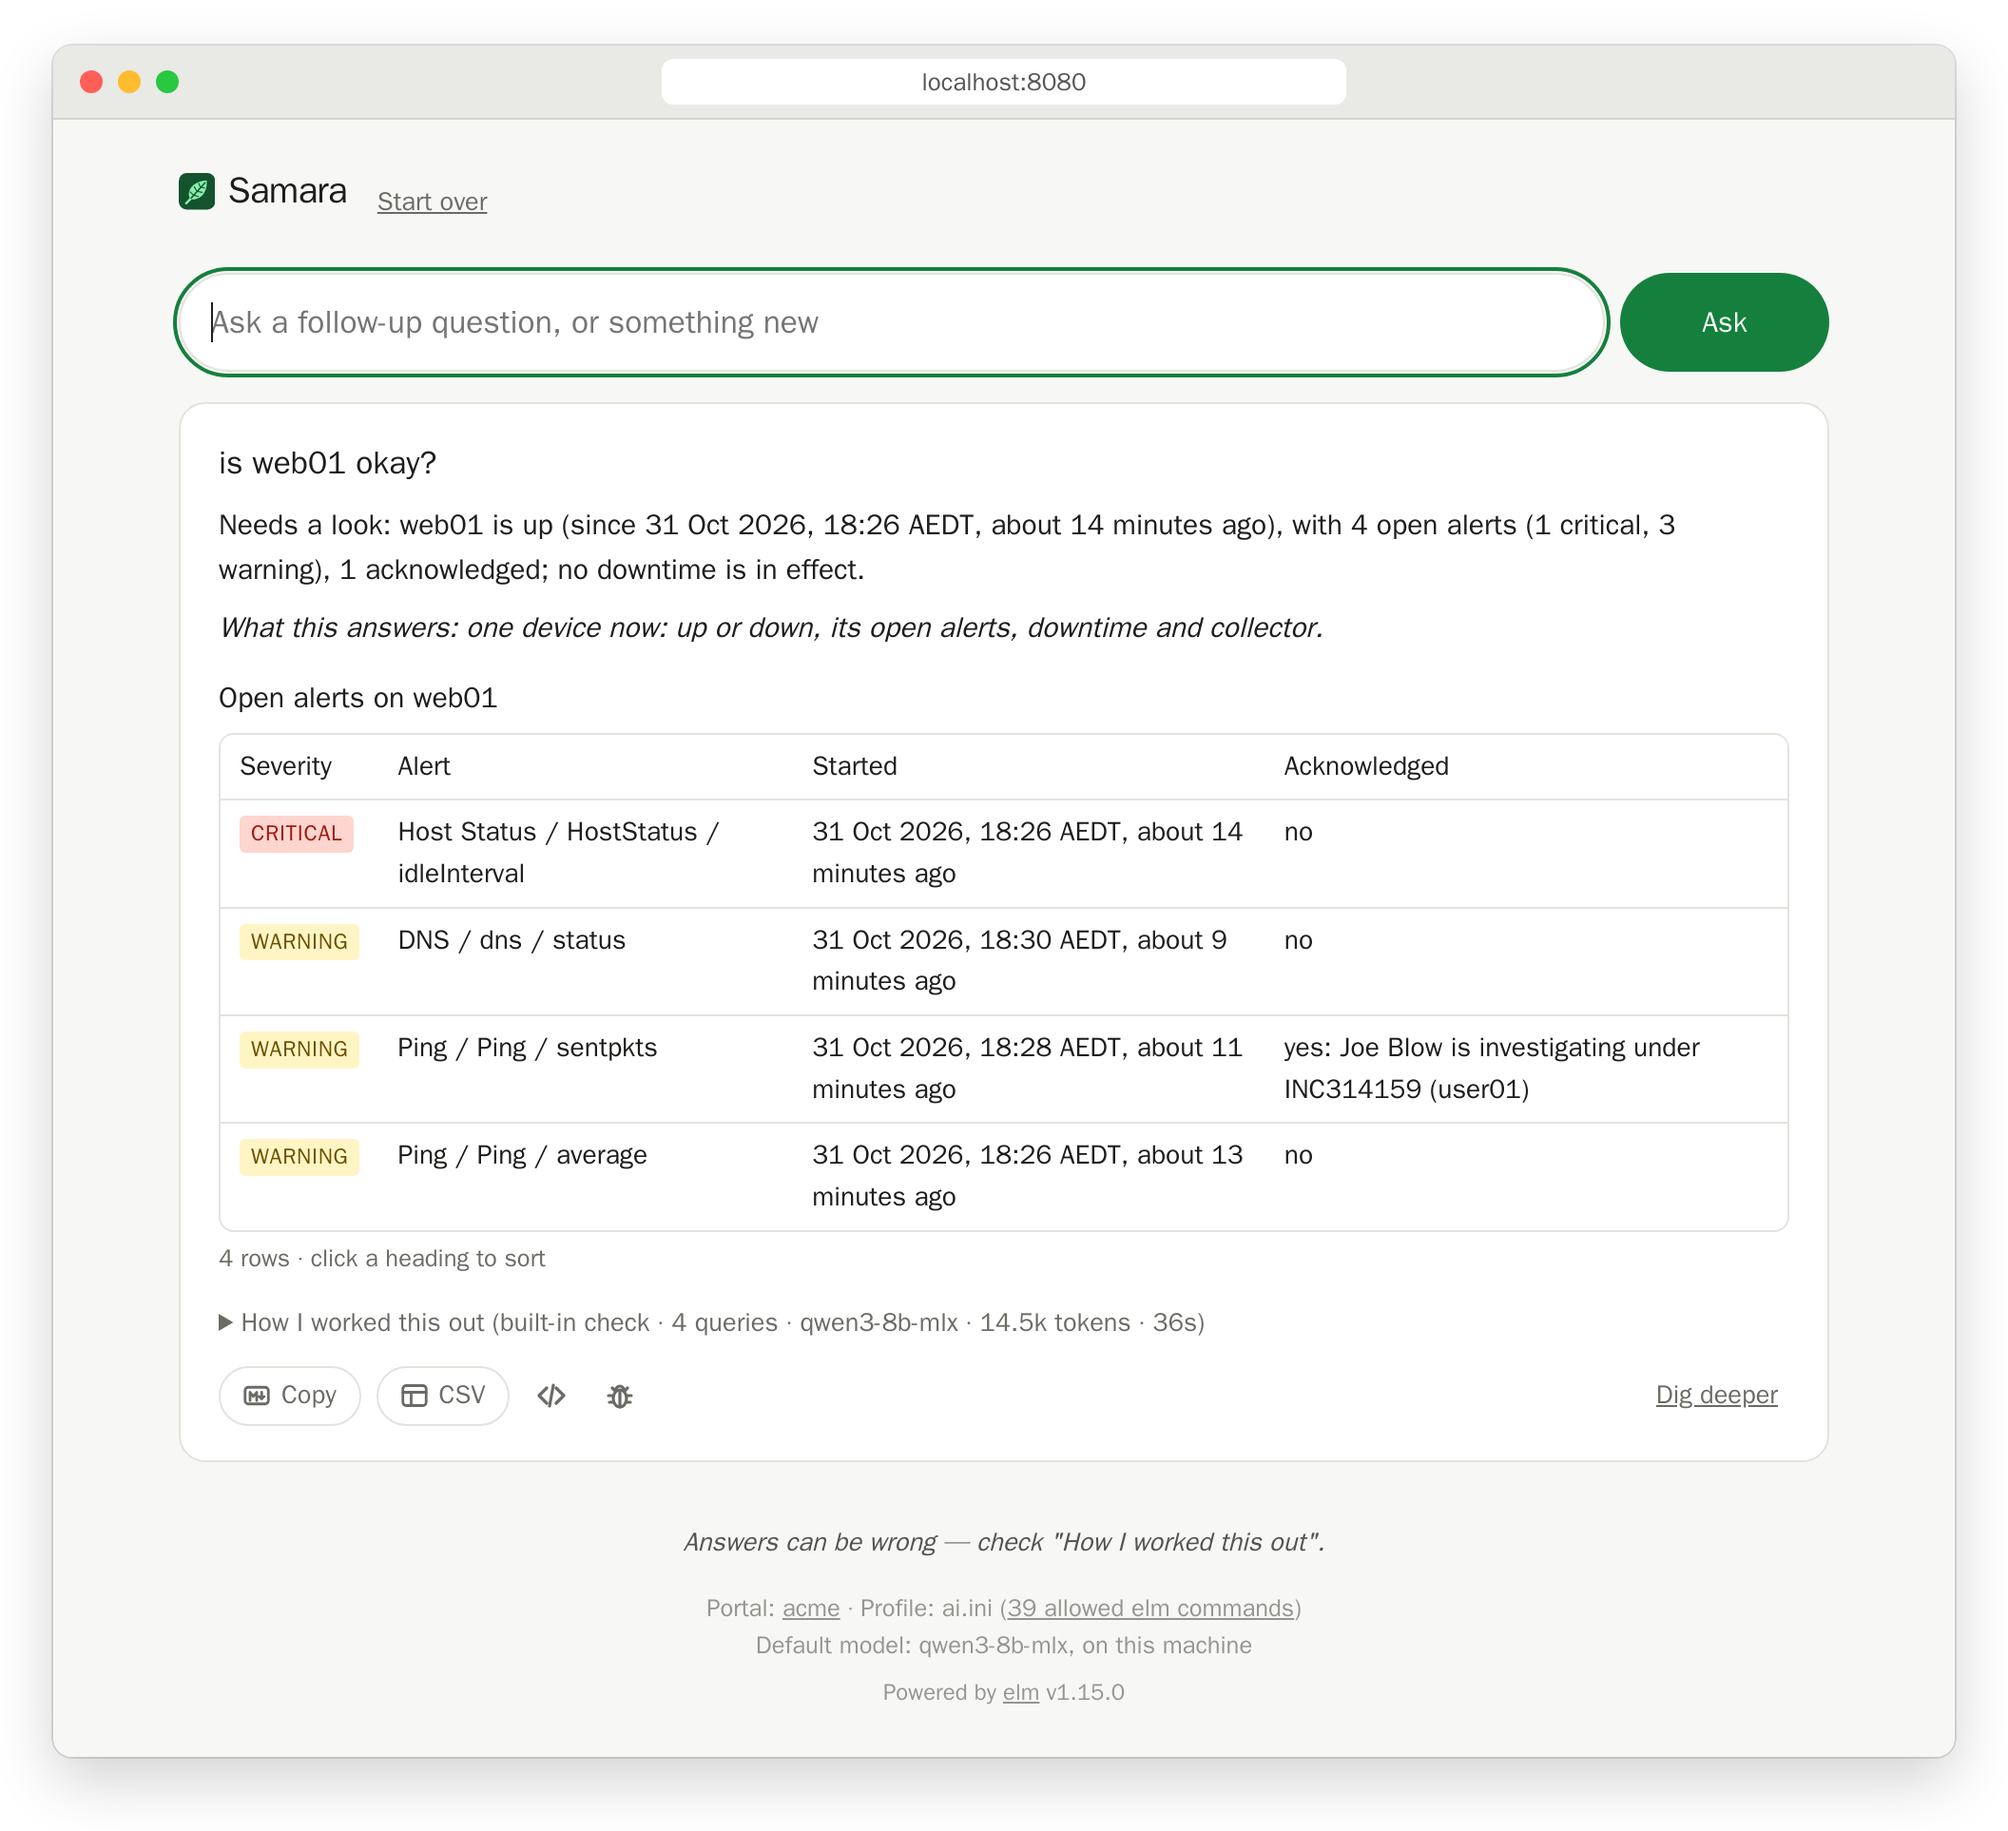
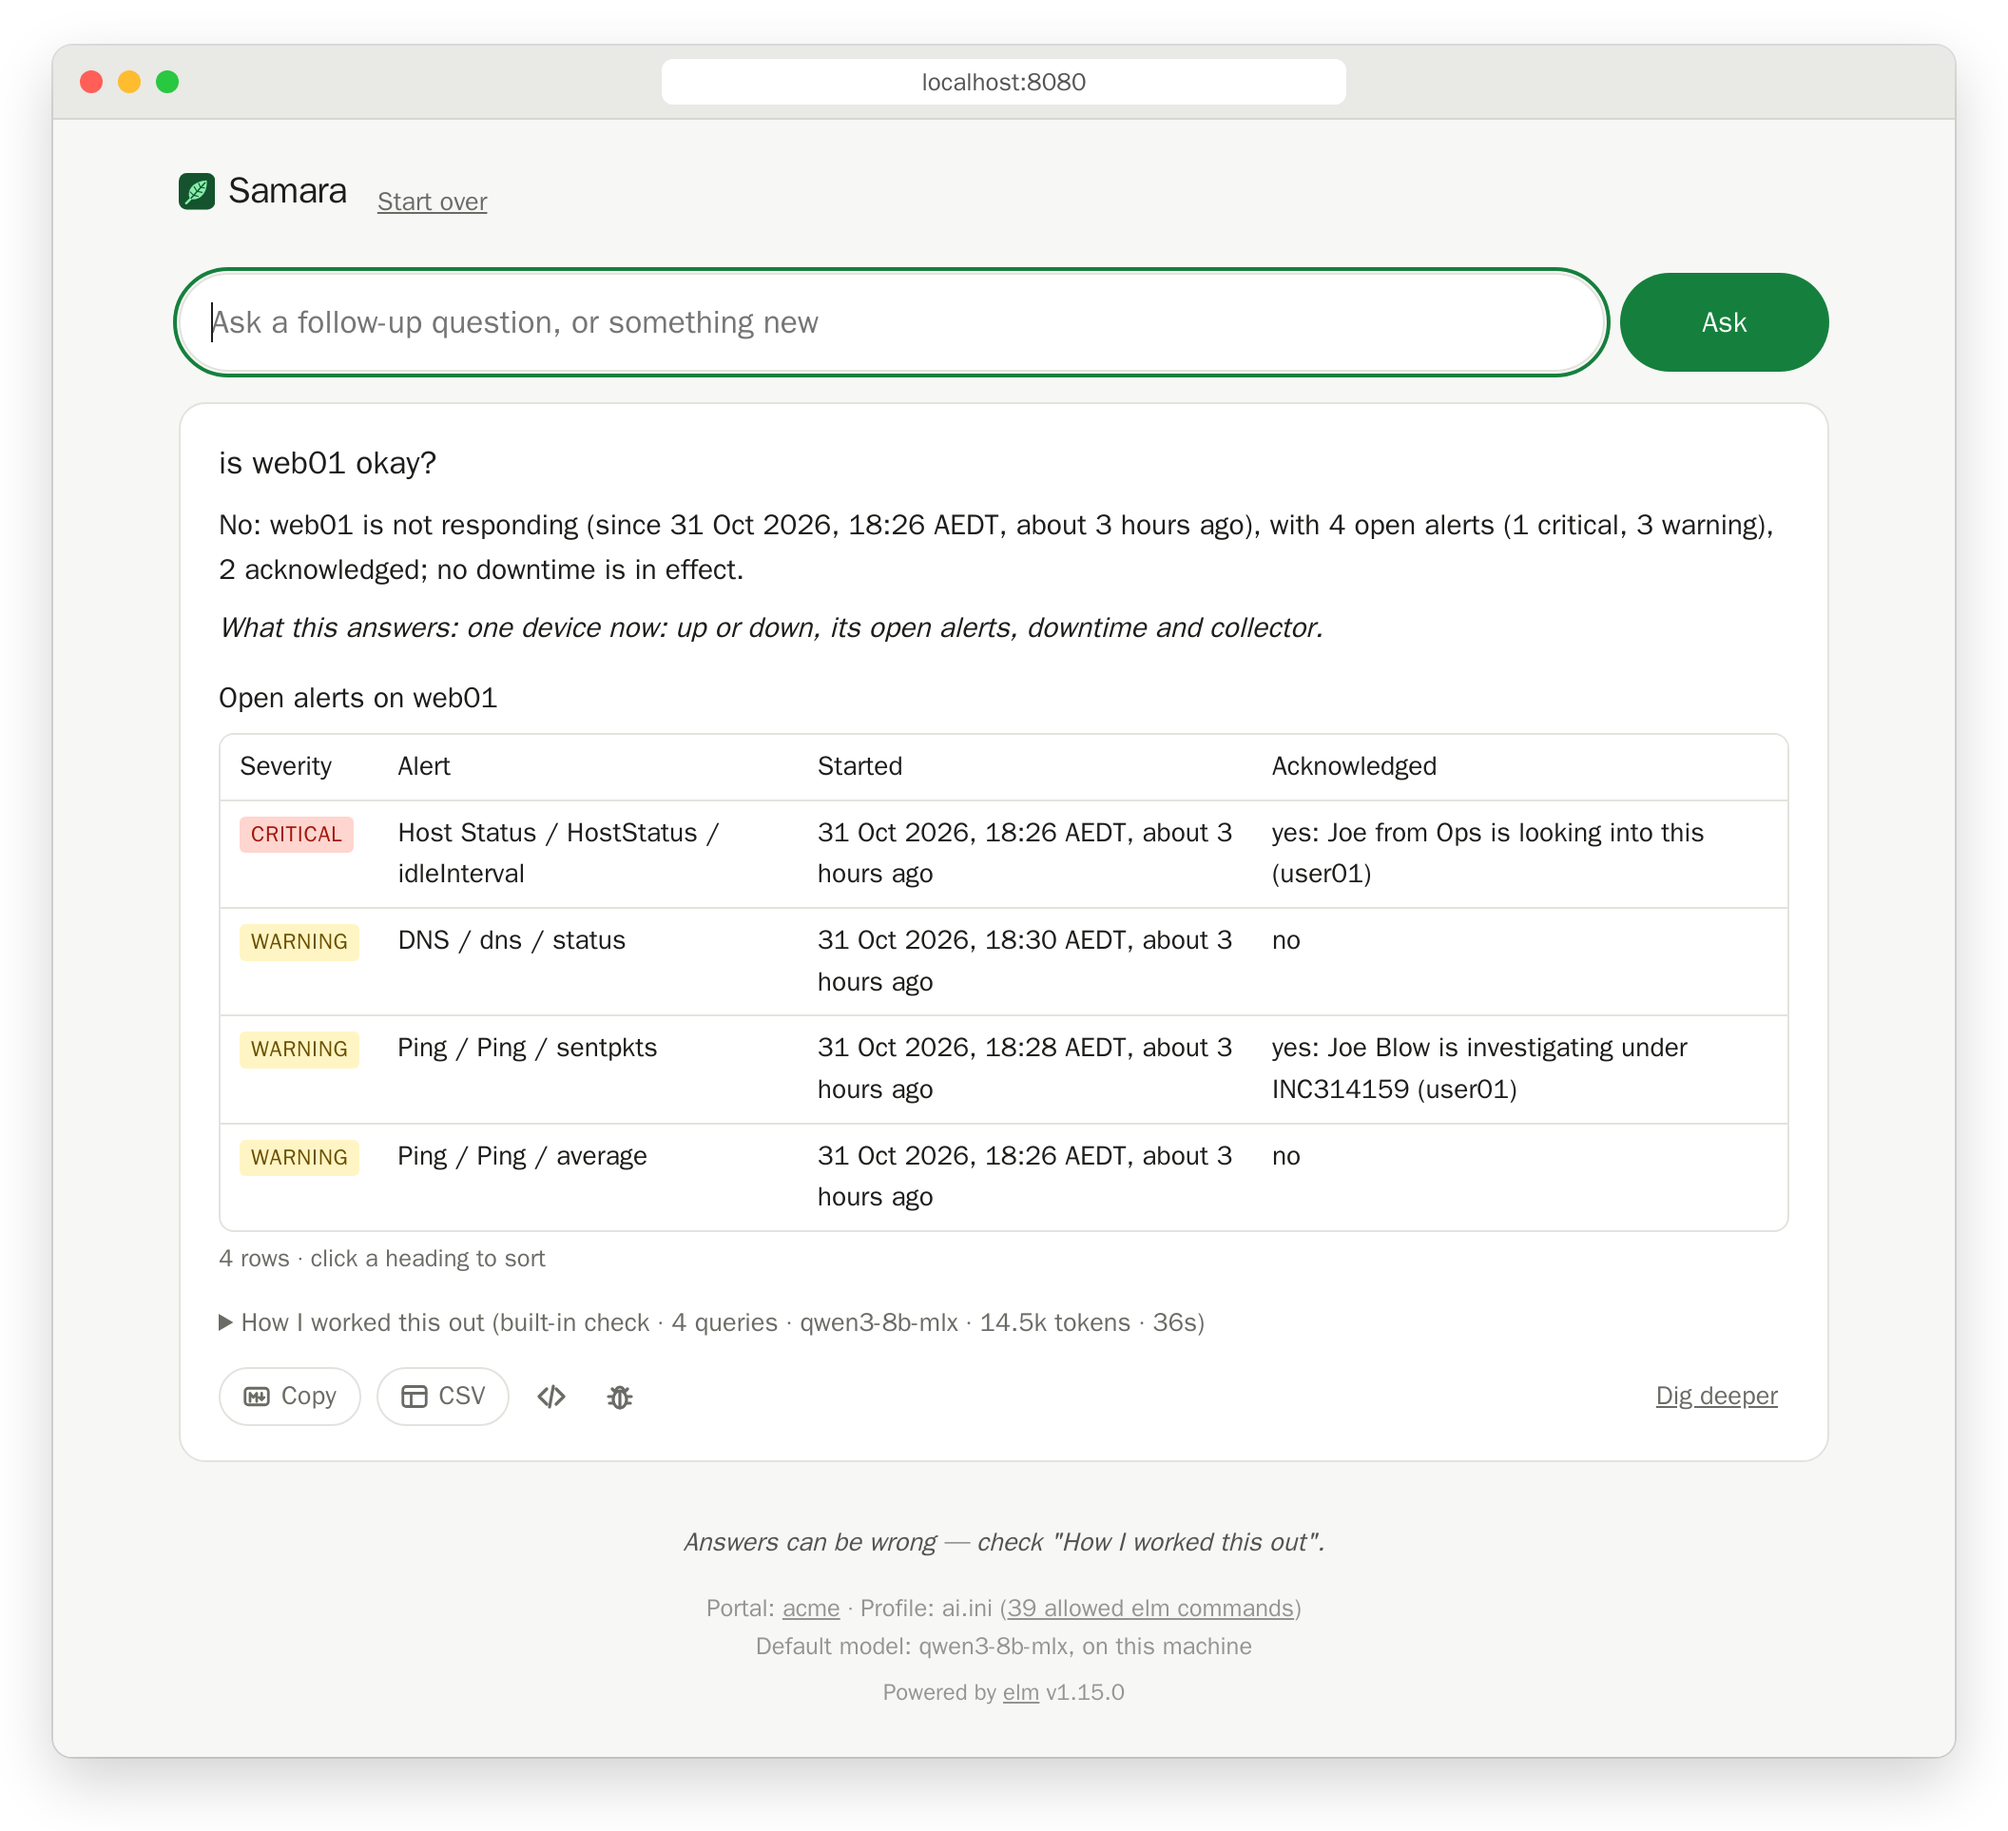
docs(site): a way home from every post; new intro; screenshot from a live run
- _layouts/post.html puts "<- elm and Samara" above each post; the posts
  and the meet-samara draft use it.
- The front page says what each tool is: elm a Unix-style command-line
  tool, Samara an AI front end that turns plain-English questions into elm
  commands.
- The Samara screenshot is a fresh device_health run (web01 not
  responding, two acknowledgements), names swapped, trimmed and framed.

Checked with a Jekyll build using the plugins Pages turns on by default.

diff --git a/_layouts/post.html b/_layouts/post.html
@@ -1,0 +1,6 @@
+---
+layout: default
+---
+<p><a href="{{ "/" | relative_url }}">&larr; elm and Samara</a></p>
+
+{{ content }}

diff --git a/index.md b/index.md
@@ -5,9 +5,10 @@ description: LogicMonitor tools that look but don't touch
 ---
 
 Two tools for getting answers out of LogicMonitor, the monitoring platform:
-elm on the command line, and Samara in plain English. Both only read, so
-nobody using them, person or AI assistant, can change the data or settings
-in your portal.
+**elm**, a traditional Unix-style command-line tool, and **Samara**, an AI
+front end that turns plain-English questions into elm commands and shows you
+the results. Both only read, so nobody using them, person or AI assistant,
+can change the data or settings in your portal.
 
 ## elm
 

diff --git a/_drafts/meet-samara.md b/_drafts/meet-samara.md
@@ -1,5 +1,5 @@
 ---
-layout: default
+layout: post
 title: "meet samara"
 description: "or: asking LogicMonitor things in plain english"
 ---

diff --git a/_posts/2026-10-31-designing-a-cli-for-ai-assistants.md b/_posts/2026-10-31-designing-a-cli-for-ai-assistants.md
@@ -1,5 +1,5 @@
 ---
-layout: default
+layout: post
 title: "designing a cli for ai assistants"
 description: "who never read the manual"
 ---

diff --git a/_posts/2026-10-12-introducing-elm.md b/_posts/2026-10-12-introducing-elm.md
@@ -1,5 +1,5 @@
 ---
-layout: default
+layout: post
 title: "introducing elm"
 description: "logicmonitor data without the clicking"
 ---
